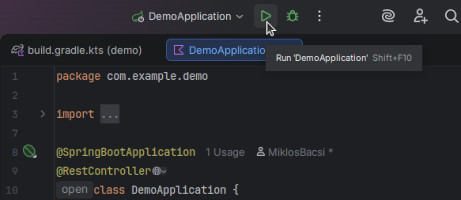
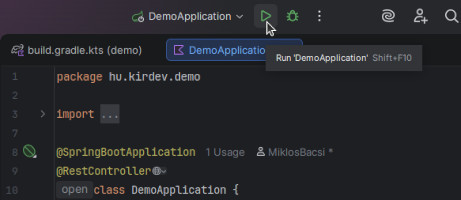
Service

Changed region(s): [[0.1215, 0.36, 0.4555, 0.42]]

diff --git a/docs/spring-boot/intro.md b/docs/spring-boot/intro.md
@@ -214,7 +214,7 @@ Fogjunk is hozzá az első Spring Boot backend megírásához! **Készítsünk e
 Az osztályon belül **hozzunk létre egy GET típusú végpontot** a `@GetMapping` annotáció `greet()` (köszönt) függvényre való helyezésével, ami **visszatér egy** `"Hello World!"` **sztringgel**.
 
 ```kotlin
-package com.example.demo
+package hu.kirdev.demo
 
 import org.springframework.boot.autoconfigure.SpringBootApplication
 import org.springframework.boot.runApplication
@@ -346,15 +346,97 @@ _**[MVC a Springben + Annotációk (YouTube)](https://youtu.be/zGSX5AqfKvU?si=Ii
 
 Basic Kotlin alapok, hogy értsék a kódot a későbbiekben
 
+%%%%%%%%%%%%%%%%%%%%%%%%%%%%%%%%%%%%%%%%%%%%%%%%%%%%%%%%%%%%%%%%%%%%
+
 ---
 
 ## Demo bővítése Service-szel
 
-Üzleti logika hozzáadása Service-ben.
+### Service hozzáadása
+
+**Hozzunk létre egy új fájlt** `UjoncGreetingService.kt`, és készítsünk el benne egy **köszöntő szolgáltatás**t (GreetingService)!
+
+Először is készítsünk egy `GreetingService` **interfészt**, ami egyetlen `greetPerson` **függvénnyel rendelkezik**. Ez a metódus **paraméterként átvesz** egy sztringet, ami a **személy nevét** tartalmazza, és egy **köszöntéssel tér vissza** (ami szintén egy sztring).
+
+Készítsünk egy ilyen szolgáltatást, ami ezt az interfészt valósítsa meg `UjoncGreetingService`.Ha az `ujonc` nevet adjuk meg, akkor `Üdvözöllek a tanfolyamon!`-nal köszönjön vissza, egyébként `Szia <név>!`-vel.
+
+```kotlin
+package hu.kirdev.demo
+
+import org.springframework.stereotype.Service
+
+interface GreetingService {
+    fun greetPerson(name: String): String
+}
+
+@Service
+class UjoncGreetingService : GreetingService {
+    override fun greetPerson(name: String): String {
+        if (name.lowercase() == "ujonc")
+            return "Üdvözöllek a tanfolyamon!"
+        else
+            return "Szia $name!"
+    }
+}
+```
+
+Az interfész megvalósítását az osztály neve után írt `: GreetingService`-szel tudjuk jelölni, és a `greetPerson` metódust felül kell írnunk, amit az `override` kulcsszóval tehetünk meg.
+
+### Controller átvitele egy külön fájlba
+
+Hogy gyakoroljuk az MVC szeparációt **vigyük át a kontrollert is egy másik fájlba**! Ekkor a **`DemoApplication`-ünk üresen fog maradni**, de `@SpringBootApplication` annotáció miatt továbbra is remekül fog működni. Mégis hogy van ez, olyan furcsán néz ki? Itt is ismét a dependency injection (a Spring Boot-os "varázspálca") kitölti ki nekünk, ami hiányzik.
+
+```kotlin
+package hu.kirdev.demo
+
+import org.springframework.boot.autoconfigure.SpringBootApplication
+import org.springframework.boot.runApplication
+
+@SpringBootApplication
+class DemoApplication {
+}
+
+fun main(args: Array<String>) {
+    runApplication<DemoApplication>(*args)
+}
+```
+
+### Módosítás a kontrolleren
+
+Hogy az újonnan létrehozott szolgáltatásunkat használni tudjuk módosítanunk kell a kontrolleren, de gyakorlás képpen egy extra dolgot ki fogunk próbálni, névlegesen: a `/` végpont helyett használjuk a `/greet`-et, amit a `@RequestMapping` annotáció osztályra való biggyesztésével tudunk elérni (ami egy végpont paramétert fogad).
+
+Ne haladjunk ennyire előre, először hozzuk létre az új fájl `MainController.kt` néven. Az osztályunk paraméterül fogad egy `GreetingService`-t, hogy kezelni tudja.
+
+A `greet` metóduson annyit kell változtatni, hogy a rá helyett annotációt `@GetMapping("/{name}")`-re változtatjuk és a `name` paraméterünk elé `@PathVariable`-t írunk. Ezzel azt érjuk és, hogy az URL-ben megadhatjuk a nevet, mint változót! Például a `/greet/Ujonc` esetén `name = "Ujonc"`.
+
+```kotlin
+package hu.kirdev.demo
+
+import org.springframework.web.bind.annotation.GetMapping
+import org.springframework.web.bind.annotation.PathVariable
+import org.springframework.web.bind.annotation.RequestMapping
+import org.springframework.web.bind.annotation.RestController
+
+@RestController
+@RequestMapping("/greet")
+class MainController(val greetingService: GreetingService) {
+
+    @GetMapping("/{name}")
+    fun greet(@PathVariable name: String) : String {
+        return greetingService.greetPerson(name)
+    }
+}
+```
+
+Teszteljük le, hogy tényleg jól működik-e a programunk! Miután elindítottuk az alkalmazást, nyissuk meg a böngészőben a `http://localhost:8080/greet/Ujonc` URL-t! Ha mindent jól csináltunk, akkor az alábbi üzenet fogad minket:
+
+![Üdvözöllek a tanfolyamon!](../../static/img/spring/Demo-greet-ujonc.jpg)
+
+**Próbáljuk ki egy másik névvel is!** Mit tapasztalunk?
+
+![Üdvözöllek a tanfolyamon!](../../static/img/spring/Demo-greet-miki.jpg)
 
 ---
-
-## Controller code
 
 ## DTO
 
